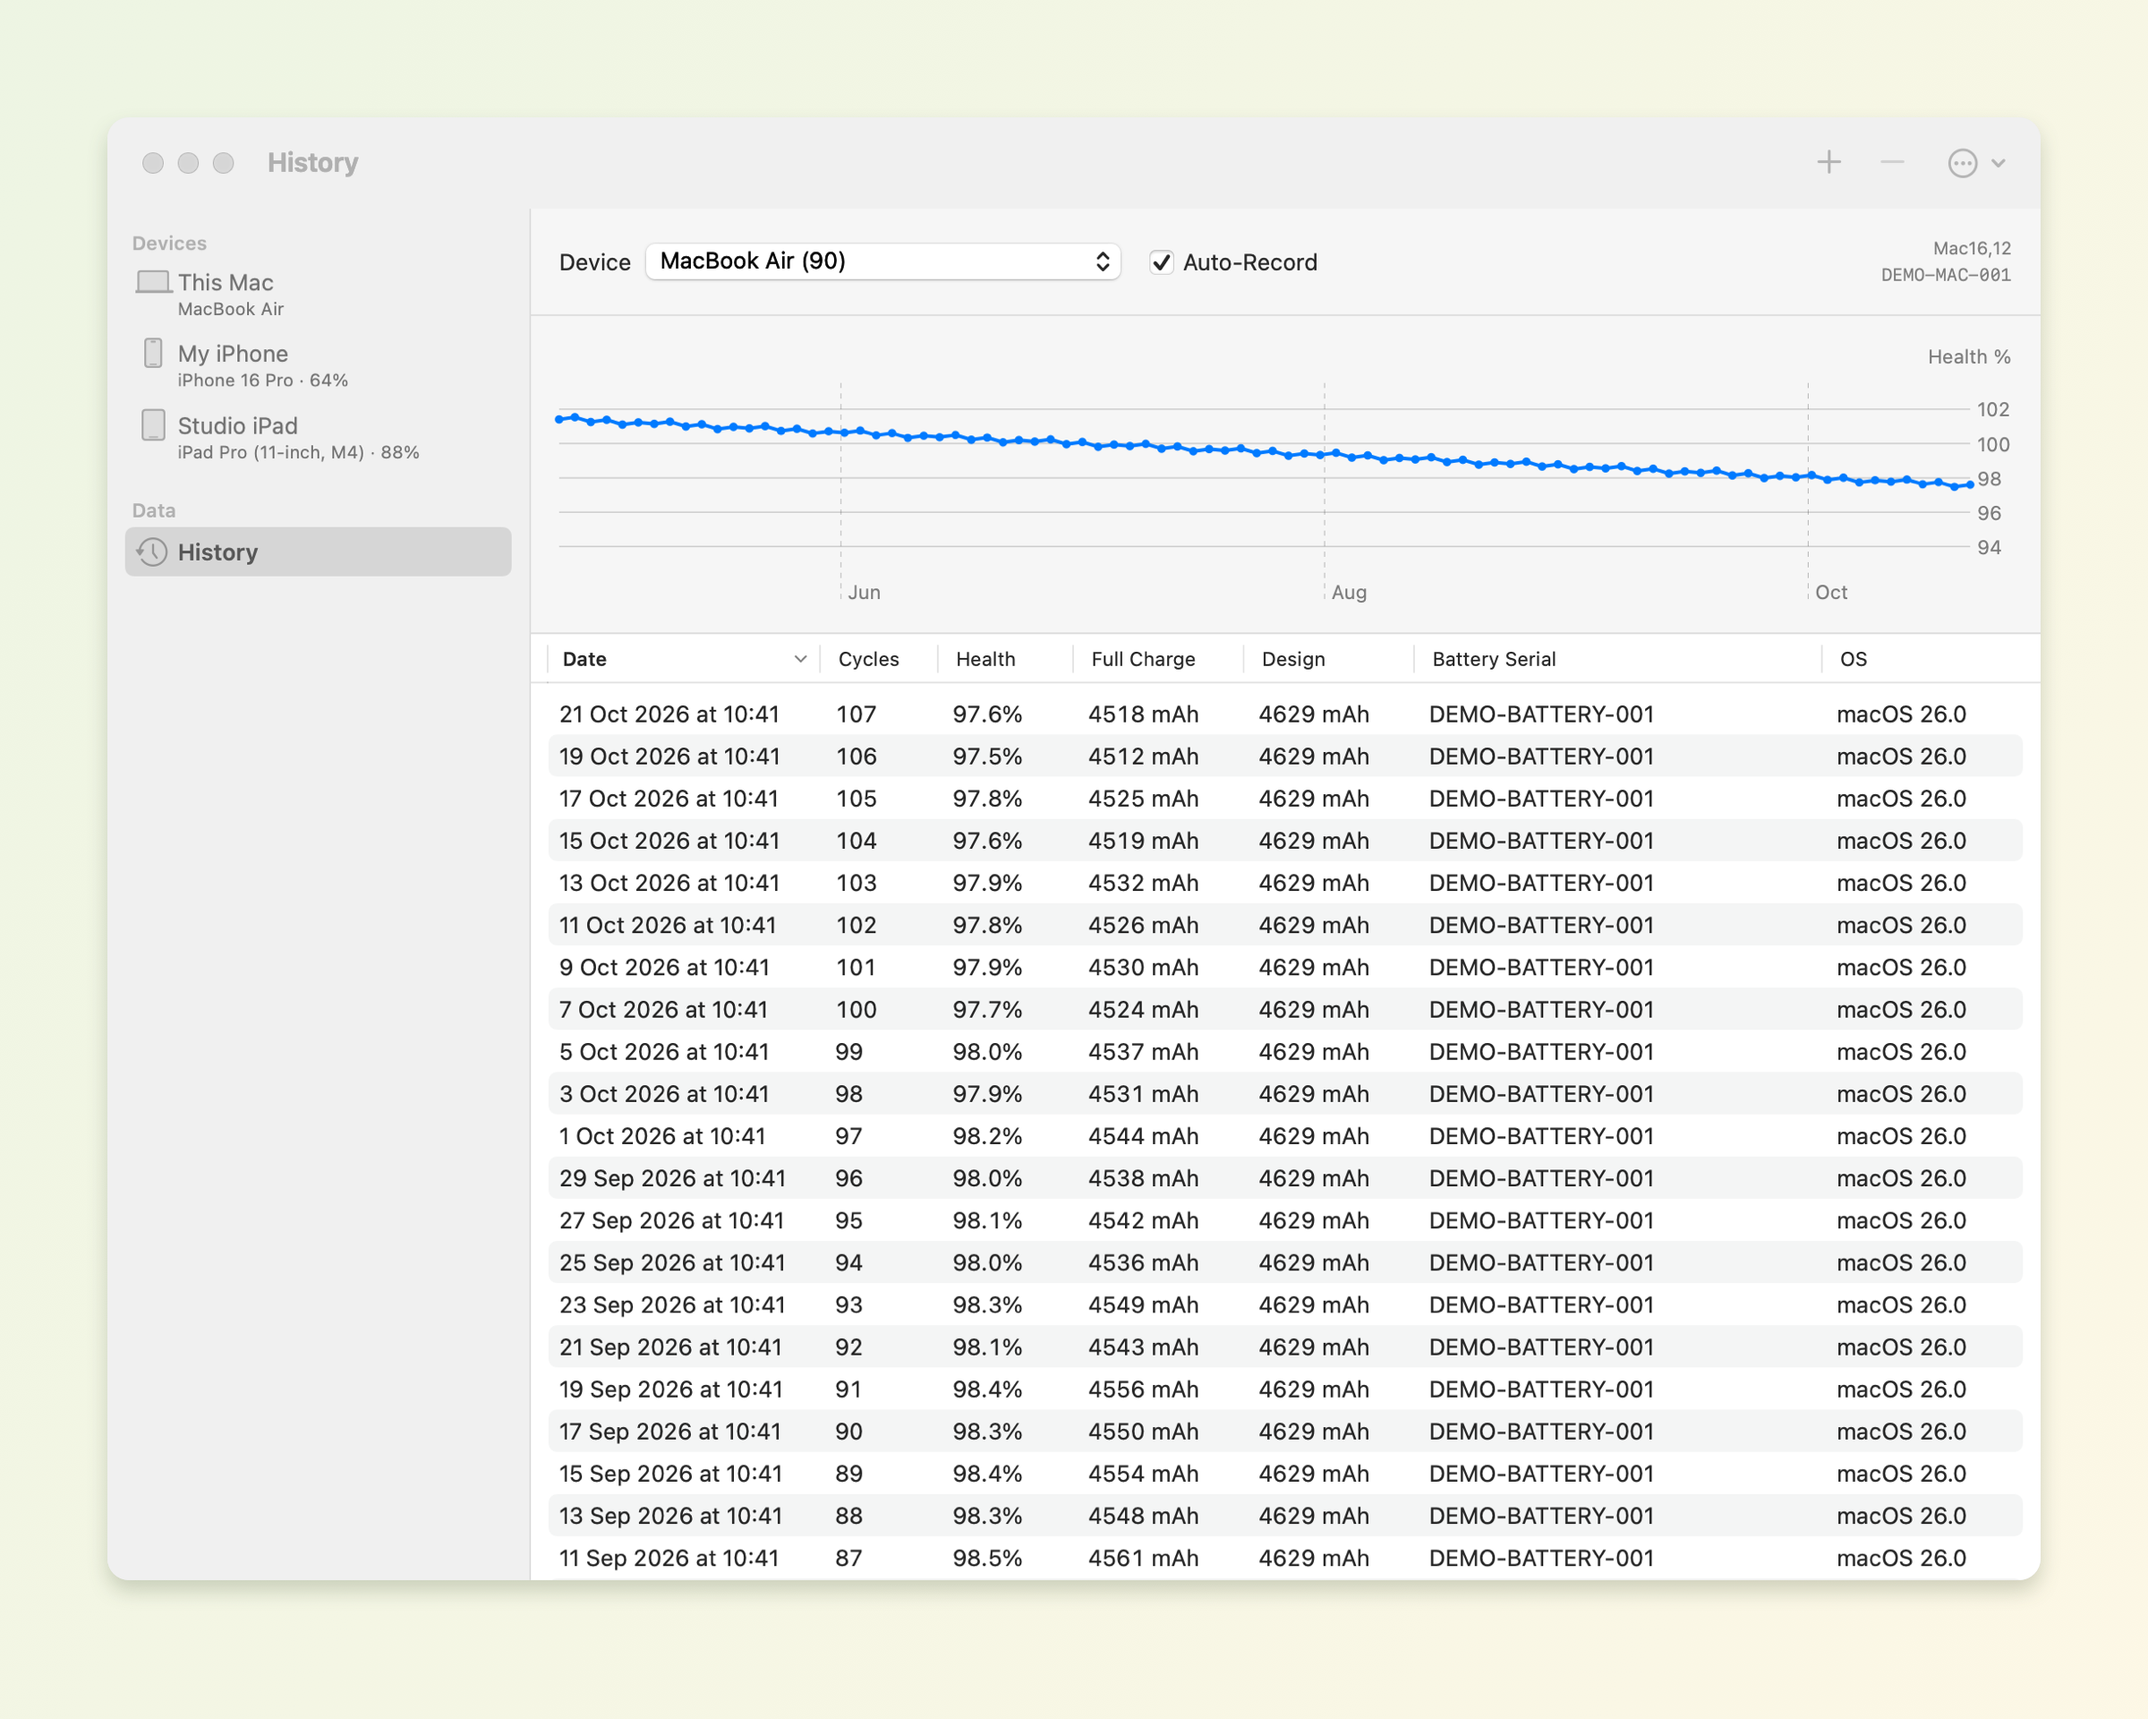
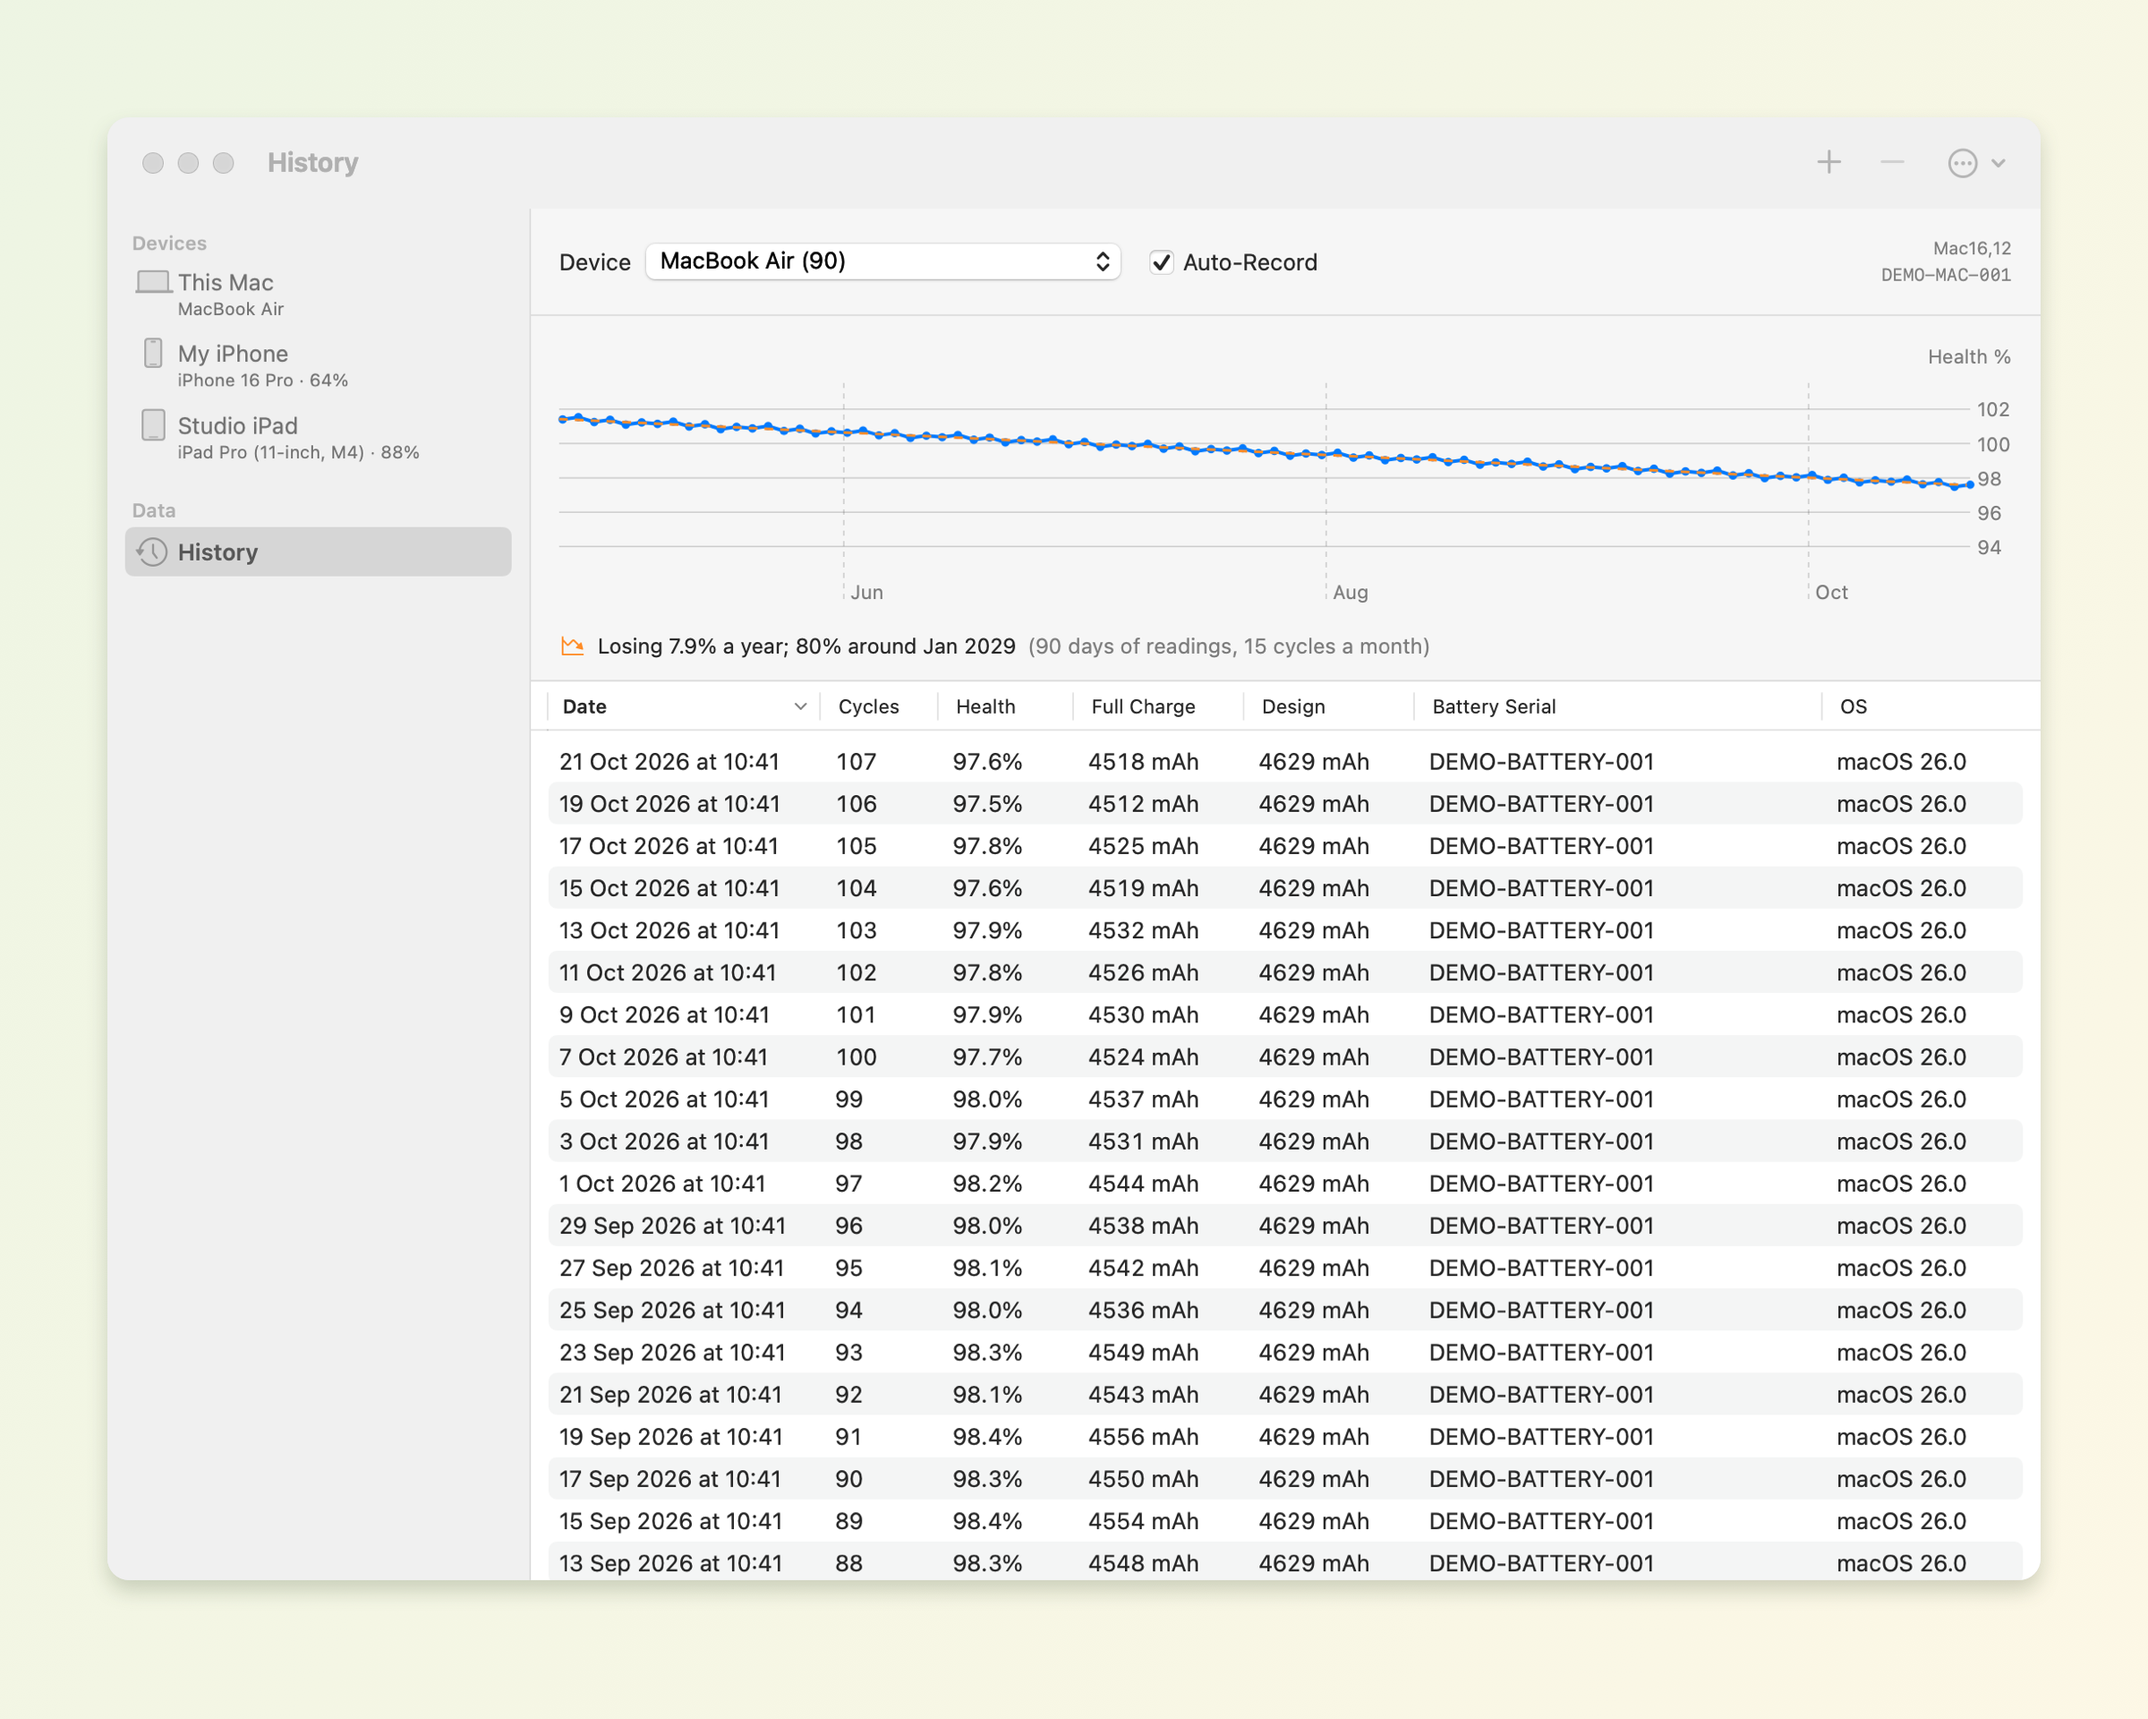
Update the README and release notes for 1.2
Describe power history and brief wakes, simplify the comparison table to
one coconutBattery column with Plus-only features marked Paid, and
regenerate the screenshots.

diff --git a/README.md b/README.md
@@ -4,8 +4,9 @@
 
 Citrus Battery shows how your Mac's battery is really doing, and your iPhone's and
 iPad's too. You get live charge, health, charge cycles, temperature and power draw.
-It keeps a history of how capacity changes over time, and records everything the
-battery's gauge has logged over its life. It's free, open source, and every feature
+It keeps a history of how capacity changes over time, forecasts when health will
+reach 80%, checks your charger, and records everything the battery's gauge has
+logged over its life. It's free, open source, and every feature
 is included.
 
 > **Version 1.2.** Data availability varies by hardware and OS version.
@@ -75,8 +76,10 @@ Click any screenshot to see it at full resolution.
 - Battery manufacturer and manufacture date. The date comes from what the battery
   records or from its serial number, or is estimated from its operating hours.
 - Power use from the SMC: system usage, its 1-minute peak, adapter input, battery
-  charge or discharge rate, CPU temperature, and a power chart for the last 2 minutes,
-  hour, day, week or month, with the battery's charge level and the times the Mac slept.
+  charge or discharge rate and CPU temperature.
+- Power history: a chart of the last 2 minutes, hour, 24 hours, 7 days or 30 days,
+  with the battery's charge level, the times the Mac slept, and the brief wakes macOS
+  makes while asleep. Hover for exact readings (macOS 14 or later).
 - Charger check: the charger's name and maker, the power it agreed with the Mac, the
   USB-C voltage and current options it offers, and how much it's supplying now. It says
   when the charger is what limits charging speed, or can't keep up and the battery
@@ -85,8 +88,8 @@ Click any screenshot to see it at full resolution.
   third-party charge limiters (AlDente, Battery Toolkit, batt). Where a limit can make
   reported capacity read low, it says so.
 - Cell voltages for each cell in the pack, with a warning when they drift apart.
-- Sleep drain: how much charge the Mac lost while asleep on battery, with a warning
-  when it's unusually high.
+- Sleep drain: how much charge the Mac lost during each sleep of 30 minutes or more
+  on battery, its average, and a warning when it's unusually high.
 - Permanent battery failure flags, decoded.
 - A notice when health falls below 80%, with a link to search for a replacement.
 
@@ -131,29 +134,27 @@ Works on Apple Silicon and Intel Macs.
 
 ## Comparison
 
-How Citrus Battery compares with coconutBattery 4.4, free and Plus:
+How Citrus Battery compares with coconutBattery 4.4. **Paid** marks features that
+need coconutBattery Plus.
 
-| Feature | Citrus Battery | coconutBattery | coconutBattery Plus |
-|---|:-:|:-:|:-:|
-| Price | Free | Free | Paid |
-| Source code | Open (GPL v3) | Closed | Closed |
-| Mac battery: charge, health, cycles, temperature | ✓ | ✓ | ✓ |
-| Battery manufacturer and manufacture date | ✓ | ✓ | ✓ |
-| Live power use | ✓ | ✓ | ✓ |
-| Charge limit detection and advice | ✓ | — | — |
-| iPhone/iPad over USB | ✓ | ✓ | ✓ |
-| iPhone/iPad over Wi-Fi | ✓ | — | ✓ |
-| History with automatic recording, backups | ✓ | ✓ | ✓ |
-| Menu bar status | ✓ | ✓ | ✓ |
-| Custom menu bar text | ✓ | — | ✓ |
-| Notifications | ✓ | — | ✓ |
-| Battery Lifetime Data | ✓ | — | ✓ |
-| Advanced Viewer (SSD health, displays, USB) | ✓ | — | ✓ |
-| Wh units and fast refresh | ✓ | — | ✓ |
-| All 8 temperature units | ✓ | 2 | ✓ |
-| Printable information sheet | — | ✓ | ✓ (custom templates) |
-| Online comparison with other devices | — | ✓ | ✓ |
-| Automatic updates | ✓ | ✓ | ✓ |
+| Feature | Citrus Battery | coconutBattery |
+|---|:-:|:-:|
+| Price | Free | Free, Plus is paid |
+| Source code | Open (GPL v3) | Closed |
+| Mac battery: charge, health, cycles, temperature, manufacture date | ✓ | ✓ |
+| Live power use | ✓ | ✓ |
+| Charge limit detection and advice | ✓ | — |
+| iPhone/iPad over USB | ✓ | ✓ |
+| iPhone/iPad over Wi-Fi | ✓ | Paid |
+| History with automatic recording and backups | ✓ | ✓ |
+| Menu bar status | ✓ | ✓ |
+| Custom menu bar text and notifications | ✓ | Paid |
+| Battery Lifetime Data | ✓ | Paid |
+| Advanced Viewer (SSD health, displays, USB) | ✓ | Paid |
+| Wh units, fast refresh, all 8 temperature units | ✓ | Paid |
+| Printable information sheet | — | ✓ |
+| Online comparison with other devices | — | ✓ |
+| Automatic updates | ✓ | ✓ |
 
 ## Building
 

diff --git a/docs/RELEASE-NOTES.md b/docs/RELEASE-NOTES.md
@@ -37,8 +37,9 @@ Your battery history and preferences are kept.
   80%. The device pages show the same estimate as **Health trend**.
 - **Power history.** The power chart now covers the last 2 minutes, hour, 24 hours,
   7 days or 30 days, with the battery's charge level underneath and the times the Mac
-  was asleep shaded. On macOS 14 or later, hover over the chart for exact readings.
-  History starts when you install this version.
+  was asleep shaded. Dots mark the brief wakes macOS makes while the Mac sleeps. On
+  macOS 14 or later, hover over the chart for exact readings. History starts when you
+  install this version, and until there's enough, the chart starts where it begins.
 - **Clearer battery readings.** When the battery is resting on the charger, the Power
   card says "Not charging (running on adapter)" instead of "Charging with 0.0 W".
 - **Charger check.** A new Charger card shows the charger's name and maker, the power
@@ -47,8 +48,8 @@ Your battery history and preferences are kept.
   or can't keep up and the battery drains while plugged in.
 - **Cell voltages.** The voltage of each cell in the pack, with a warning when they
   drift apart.
-- **Sleep drain.** How much charge the Mac lost while asleep on battery, with a
-  warning when it is unusually high.
+- **Sleep drain.** How much charge the Mac lost during each sleep of 30 minutes or
+  more on battery, with a warning when it is unusually high.
 
 ## Included features
 
